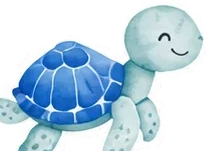
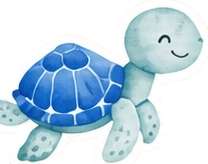
Fill the viewport with the hero and restore the turtles' legs
The hero now sizes itself so the header, the hero and the first wave band
together fill exactly one screen (min-height from 100svh minus the two
measured heights, kept in CSS variables), with the content vertically
centred and the portrait growing with the viewport instead of sitting at
a fixed 420px.

The turtle cutouts were segmented with a crop line at y=246, which sliced
their front legs flat; the teal starfish lost its lower points the same
way. All three are re-extracted at the true edge of the artwork (y=256),
and a leftover sliver of wave keyed off the starfish.

Claude-Session: https://claude.ai/code/session_01FHjbgYbvwyauAhAEVwTY6z

diff --git a/docs/css/site.css b/docs/css/site.css
@@ -8,6 +8,7 @@
 @font-face{font-family:"Nunito";font-style:normal;font-weight:400 800;font-display:swap;src:url("../assets/fonts/nunito-latin.woff2") format("woff2");unicode-range:U+0000-00FF,U+0131,U+0152-0153,U+02BB-02BC,U+02C6,U+02DA,U+02DC,U+0304,U+0308,U+0329,U+2000-206F,U+20AC,U+2122,U+2191,U+2193,U+2212,U+2215,U+FEFF,U+FFFD}
 
 :root{
+  --alto-barra:75px; --alto-franja:264px;
   --crema:#FBF5EF; --agua:#EEF4FA; --blanco:#fff;
   --tinta:#2F4260; --texto:#4B6588; --suave:#5B7894; --tenue:#8DA2B4;
   --rosa:#E2557E; --rosa-hover:#D0446E; --rosa-sombra:#B93C61; --rosa-palo:#F3E3EA; --rosa-claro:#EFAFC3;
@@ -72,8 +73,10 @@ body::-webkit-scrollbar-thumb{background:#A9BEE4;border-radius:6px}
 .barra.abierta .barra__toggle span:nth-child(3){transform:translateY(-9px) rotate(-45deg)}
 
 /* ---------- hero ---------- */
-.hero{padding:52px 24px 0}
-.hero__grid{display:grid;grid-template-columns:repeat(auto-fit,minmax(320px,1fr));gap:44px;align-items:center;padding-bottom:34px}
+.hero{padding:clamp(24px,4vh,56px) 24px 0;display:flex;align-items:center;
+  min-height:calc(100svh - var(--alto-barra) - var(--alto-franja))}
+.hero > .wrap{width:100%}
+.hero__grid{display:grid;grid-template-columns:repeat(auto-fit,minmax(320px,1fr));gap:44px;align-items:center;padding-bottom:clamp(24px,4vh,44px)}
 .hero__pill{display:inline-block;background:var(--rosa-palo);color:var(--rosa-sombra);font-weight:700;font-size:12px;letter-spacing:.16em;text-transform:uppercase;padding:8px 16px;border-radius:999px;margin-bottom:20px}
 .hero h1{font-size:clamp(34px,4.6vw,56px);line-height:1.06;color:var(--rosa);margin-bottom:18px}
 .hero h1 span{color:var(--tinta)}
@@ -82,7 +85,7 @@ body::-webkit-scrollbar-thumb{background:#A9BEE4;border-radius:6px}
 .hero__escena{position:relative}
 .hero__mancha{position:absolute;inset:-24px -20px -16px -28px;background:var(--rosa-palo);border-radius:46% 54% 52% 48%/48% 44% 56% 52%}
 .polaroid{position:relative;background:#fff;padding:12px;border-radius:22px;box-shadow:var(--sombra-foto);transform:rotate(-1.4deg)}
-.polaroid img{width:100%;height:420px;object-fit:cover;object-position:46% 16%;border-radius:14px}
+.polaroid img{width:100%;height:clamp(380px,46vh,540px);object-fit:cover;object-position:46% 16%;border-radius:14px}
 .washi{position:absolute;top:-14px;left:50%;width:96px;height:26px;border-radius:3px;opacity:.9;transform:translateX(-50%) rotate(-3deg);background:var(--celeste-washi)}
 .hero__nota{position:absolute;right:-10px;bottom:-24px;background:var(--nota);padding:14px 18px;border-radius:10px;box-shadow:0 8px 18px rgba(47,66,96,.16);transform:rotate(3deg);font-family:"Baloo 2",cursive;font-size:15px;color:var(--nota-tinta);max-width:200px;line-height:1.3}
 .burbujas{position:absolute;pointer-events:none;z-index:1}
@@ -297,12 +300,13 @@ details .faq__cuerpo{overflow:hidden}
   .barra__menu a{padding:12px 14px;font-size:16px}
   .barra__cta{display:none}
   .barra__toggle{display:block}
-  .hero{padding-top:36px}
+  .hero{padding-top:clamp(20px,3vh,36px);min-height:calc(100svh - var(--alto-barra) - var(--alto-franja))}
   .hero__escena{margin-top:10px}
-  .polaroid img{height:340px}
+  .polaroid img{height:clamp(300px,40vh,420px)}
   .hero__nota{right:0}
   .contacto__banda{padding:30px 24px}
   .franja{--k:.62;height:150px}
+  :root{--alto-franja:150px}
   .mar--extra{display:none}
   .burbujas{display:none}
 }
